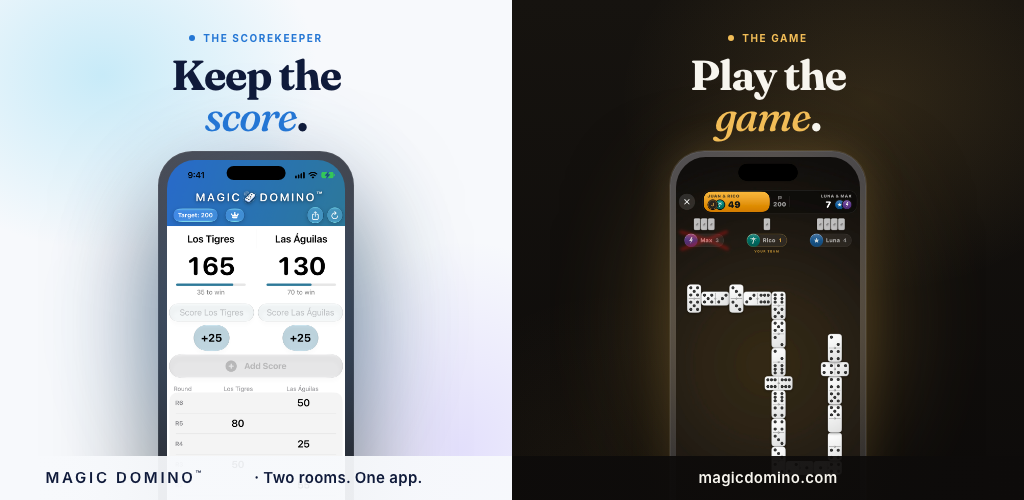
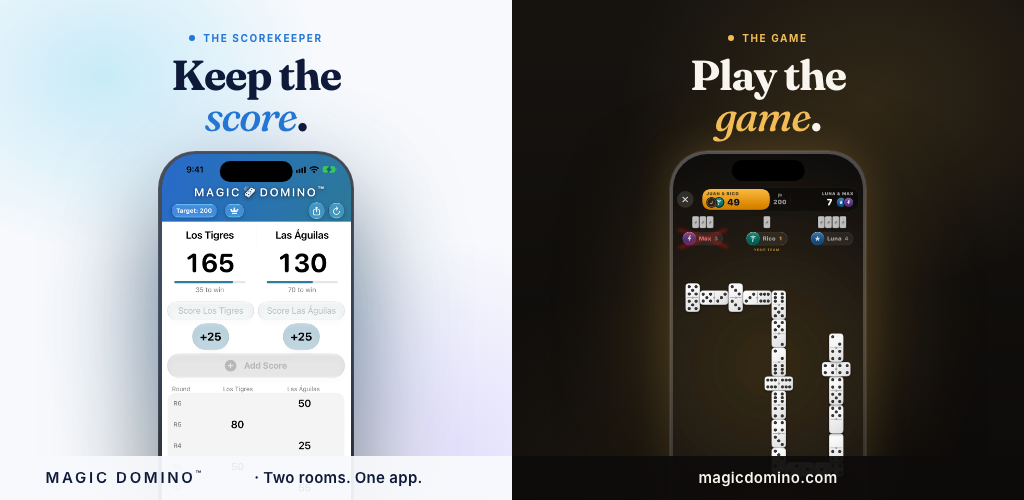
Site: thin, true-to-device phone bezels (sized off each phone's own width, concentric corners, real island proportions); social card re-rendered

diff --git a/site.css b/site.css
@@ -283,8 +283,14 @@ section { padding: 6rem 0; }
        and the pane's fixed height crops the phone at the bottom. Desktop only —
        the phone block below positions it absolutely against the pane's bottom. */
     position: relative; z-index: 1; flex: none; margin: 2.4rem auto 0;
-    width: clamp(250px, 24vw, 340px); aspect-ratio: 736 / 1600;
-    padding: 2%; border-radius: 17.5% / 8.05%;
+    /* ⛔ THE BEZEL IS MEASURED OFF THE PHONE'S OWN WIDTH (--w), never a % padding: a
+       padding percentage resolves against the PARENT's width — the whole hero pane — so
+       "2%" drew a bezel ~5% of the phone, four times a real one (Juan, 2026-10-13: "make
+       them thin like actual device bezel iphone 18 pro max"). A Pro Max's bezel is ~1.5%
+       of its width; its corners are circular and concentric with the screen's. */
+    --w: clamp(250px, 24vw, 340px); --bz: calc(var(--w) * 0.014);
+    width: var(--w); aspect-ratio: 736 / 1600;
+    padding: var(--bz); border-radius: calc(var(--w) * 0.15);
     /* Graphite, not black: a frame that is visibly a different material from the
        screen, so a dark screen (the felt) cannot merge with it and look like a
        fatter bezel. */
@@ -292,11 +298,12 @@ section { padding: 6rem 0; }
     box-shadow: 0 50px 100px rgba(0, 0, 0, 0.5), 0 0 0 1px rgba(255, 255, 255, 0.12), inset 0 0 0 1px rgba(255, 255, 255, 0.06);
     animation: mockUp 1.1s cubic-bezier(0.2, 0.8, 0.2, 1) both, mockFloat 7s ease-in-out 1.1s infinite;
 }
-.mock img { display: block; width: 100%; height: 100%; object-fit: cover; object-position: top; border-radius: 15.5% / 7.1%; }
+.mock img { display: block; width: 100%; height: 100%; object-fit: cover; object-position: top; border-radius: calc(var(--w) * 0.15 - var(--bz)); }
 /* The Dynamic Island, so the frame reads as the current iPhone Pro Max. */
 .mock::after {
-    content: ""; position: absolute; left: 50%; top: 3.6%; translate: -50% 0;
-    width: 30%; height: 3.2%; border-radius: 999px; background: #000;
+    /* A real island's proportions: ~29% of the width, centred on the status bar's line. */
+    content: ""; position: absolute; left: 50%; top: calc(var(--bz) + var(--w) * 0.026); translate: -50% 0;
+    width: calc(var(--w) * 0.29); height: calc(var(--w) * 0.083); border-radius: 999px; background: #000;
 }
 .mock::before {
     content: ""; position: absolute; left: -30%; right: -30%; top: -10%; bottom: 10%; z-index: -1;
@@ -312,10 +319,9 @@ section { padding: 6rem 0; }
     /* Thinner than the scoreboard's frame ON PURPOSE (Juan, 2026-09-30): the game
        screenshot is dark to its edge, and the eye adds that margin to the frame. A
        narrower frame here is what makes the two LOOK the same width. */
-    padding: 1.3%; }
+    --bz: calc(var(--w) * 0.011); }
 /* Concentric corners: the screen's radius is the frame's radius minus the frame's
    width, or the frame pinches to nothing at the corners (it did, 2026-09-30). */
-.mock-play img { border-radius: 16.2% / 7.45%; }
 .mock-play::before { background: radial-gradient(closest-side, rgba(242, 189, 87, 0.6), transparent); }
 @keyframes mockUp { from { opacity: 0; translate: 0 90px; } }
 /* A pendulum, not a stepper: each quarter is eased like a sine wave — fast through
@@ -390,22 +396,23 @@ section { padding: 6rem 0; }
 .strip::-webkit-scrollbar-thumb { background: var(--card-border); border-radius: 3px; }
 .shot { flex: 0 0 auto; scroll-snap-align: center; display: grid; gap: 0.6rem; justify-items: center; }
 .shot-frame {
-    width: clamp(200px, 17vw, 240px); aspect-ratio: 736 / 1600; position: relative;
-    padding: 2.2%; border-radius: 17.5% / 8.05%;
+    /* The hero's rule: the bezel is ~1.5% of the phone's OWN width (see .mock). */
+    --w: clamp(200px, 17vw, 240px); --bz: calc(var(--w) * 0.014);
+    width: var(--w); aspect-ratio: 736 / 1600; position: relative;
+    padding: var(--bz); border-radius: calc(var(--w) * 0.15);
     background: linear-gradient(160deg, #4b4b52, #1c1c20);
     box-shadow: 0 30px 60px rgba(15, 26, 58, 0.22), 0 0 0 1px rgba(255, 255, 255, 0.12), inset 0 0 0 1px rgba(255, 255, 255, 0.06);
 }
 .world-play .shot-frame {
     /* The hero's rule: the dark screenshot reads its own margin as frame, so a
        thinner frame LOOKS the same width as the light one. Concentric corners. */
-    padding: 1.4%;
+    --bz: calc(var(--w) * 0.011);
     box-shadow: 0 30px 60px rgba(0, 0, 0, 0.6), 0 0 30px rgba(242, 189, 87, 0.14), 0 0 0 1px rgba(255, 255, 255, 0.12), inset 0 0 0 1px rgba(255, 255, 255, 0.06);
 }
-.shot-frame img { width: 100%; height: 100%; object-fit: cover; object-position: top; position: relative; z-index: 2; border-radius: 15.5% / 7.1%; }
-.world-play .shot-frame img { border-radius: 16.1% / 7.4%; }
+.shot-frame img { width: 100%; height: 100%; object-fit: cover; object-position: top; position: relative; z-index: 2; border-radius: calc(var(--w) * 0.15 - var(--bz)); }
 .shot-frame::after {
-    content: ""; position: absolute; left: 50%; top: 3.6%; translate: -50% 0; z-index: 3;
-    width: 30%; height: 3.2%; border-radius: 999px; background: #000;
+    content: ""; position: absolute; left: 50%; top: calc(var(--bz) + var(--w) * 0.026); translate: -50% 0; z-index: 3;
+    width: calc(var(--w) * 0.29); height: calc(var(--w) * 0.083); border-radius: 999px; background: #000;
 }
 /* Hidden by OPACITY, never display:none: the strip's images are loading="lazy", and a
    browser never lazy-loads an image with no box — so a display:none image never loaded,
@@ -563,10 +570,9 @@ footer {
     /* Pinned to the pane's bottom edge here (the halves are too short for the phone
        to follow the words in flow), each centred in its own half: left/right 0 + auto
        margins, so the float's `translate` is free for the up-and-down. */
-    .mock { position: absolute; width: clamp(162px, 44vw, 186px); top: auto; bottom: -17%; margin: 0; padding: 2.2%; }
+    .mock { position: absolute; --w: clamp(162px, 44vw, 186px); top: auto; bottom: -17%; margin: 0; }
     .mock-score, .mock-play { left: 0; right: 0; margin-inline: auto; }
-    .mock-play img { border-radius: 16.1% / 7.4%; }
-    .mock-play { padding: 1.4%; box-shadow: 0 30px 60px rgba(0, 0, 0, 0.6), 0 0 30px rgba(242, 189, 87, 0.22), 0 0 0 1px rgba(255, 255, 255, 0.12); }
+    .mock-play { box-shadow: 0 30px 60px rgba(0, 0, 0, 0.6), 0 0 30px rgba(242, 189, 87, 0.22), 0 0 0 1px rgba(255, 255, 255, 0.12); }
     .hero-one .lead { display: none; }
     .hero-one { padding: 1.5rem 1.25rem 2rem; }
     .hero-one h1 { font-size: clamp(1.6rem, 7vw, 2rem); margin-bottom: 0.6rem; }

diff --git a/index.html b/index.html
@@ -25,7 +25,7 @@
     <link rel="preconnect" href="https://fonts.googleapis.com">
     <link rel="preconnect" href="https://fonts.gstatic.com" crossorigin>
     <link href="https://fonts.googleapis.com/css2?family=Fraunces:ital,opsz,wght@0,9..144,400;0,9..144,500;0,9..144,600;0,9..144,700;0,9..144,800;1,9..144,500&family=Inter:wght@400;500;600;700&display=swap" rel="stylesheet">
-    <link rel="stylesheet" href="site.css?v=20261012e">
+    <link rel="stylesheet" href="site.css?v=20261013b">
     <script src="/i18n.js?v=20261013b"></script>
     <script src="/site-stats.js?v=20261004a" defer></script>
 </head>

diff --git a/privacy.html b/privacy.html
@@ -9,7 +9,7 @@
     <link rel="preconnect" href="https://fonts.googleapis.com">
     <link rel="preconnect" href="https://fonts.gstatic.com" crossorigin>
     <link href="https://fonts.googleapis.com/css2?family=Fraunces:ital,opsz,wght@0,9..144,400;0,9..144,500;0,9..144,600;0,9..144,700;1,9..144,500&family=Inter:wght@400;500;600;700&display=swap" rel="stylesheet">
-    <link rel="stylesheet" href="site.css?v=20261012e">
+    <link rel="stylesheet" href="site.css?v=20261013b">
     <script src="/i18n.js?v=20261013b"></script>
     <script src="/site-stats.js?v=20261004a" defer></script>
 </head>

diff --git a/support.html b/support.html
@@ -9,7 +9,7 @@
     <link rel="preconnect" href="https://fonts.googleapis.com">
     <link rel="preconnect" href="https://fonts.gstatic.com" crossorigin>
     <link href="https://fonts.googleapis.com/css2?family=Fraunces:ital,opsz,wght@0,9..144,400;0,9..144,500;0,9..144,600;0,9..144,700;1,9..144,500&family=Inter:wght@400;500;600;700&display=swap" rel="stylesheet">
-    <link rel="stylesheet" href="site.css?v=20261012e">
+    <link rel="stylesheet" href="site.css?v=20261013b">
     <script src="/i18n.js?v=20261013b"></script>
     <script src="/site-stats.js?v=20261004a" defer></script>
 </head>

diff --git a/terms.html b/terms.html
@@ -9,7 +9,7 @@
     <link rel="preconnect" href="https://fonts.googleapis.com">
     <link rel="preconnect" href="https://fonts.gstatic.com" crossorigin>
     <link href="https://fonts.googleapis.com/css2?family=Fraunces:ital,opsz,wght@0,9..144,400;0,9..144,500;0,9..144,600;0,9..144,700;1,9..144,500&family=Inter:wght@400;500;600;700&display=swap" rel="stylesheet">
-    <link rel="stylesheet" href="site.css?v=20261012e">
+    <link rel="stylesheet" href="site.css?v=20261013b">
     <script src="/i18n.js?v=20261013b"></script>
     <script src="/site-stats.js?v=20261004a" defer></script>
 </head>

diff --git a/SCREENSHOTS.md b/SCREENSHOTS.md
@@ -147,3 +147,13 @@ a still board with no red marks); `overrides.json` holds the two picked by eye (
 `duo.py LANG…` shoots the opened Duo (`-debugLaunchTab playSplit -debugDuoDemo deal`). `assemble.py`
 resizes into the site. The computers wear each language's own names, so the boards differ by language
 — that is the point. ~1 h 40 min for all 17 on two simulators.
+
+## The phone frames (2026-10-13)
+
+Juan: "see how thick the bezels of these screenshots are? make them thin like actual device bezel
+iphone 18 pro max". Every frame (`.mock`, `.shot-frame`) is sized from its OWN width, `--w`: the
+bezel is `--bz` = 1.4% of it (1.1% on the felt, where the dark screen reads as frame), circular
+corners at 15% of the width with the screen's corner `15% − bezel` (concentric), and the Dynamic
+Island at a real island's proportions on the status bar's line. ⛔ Never a `%` padding: a padding
+percentage resolves against the PARENT's width — the hero's whole pane — which drew a bezel ~5% of
+the phone. The social card reuses `.mock`; re-render it after any change here.
